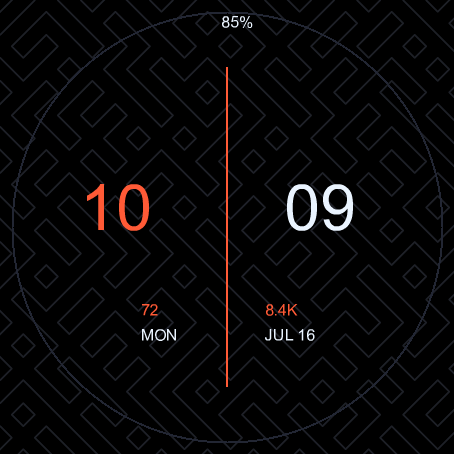
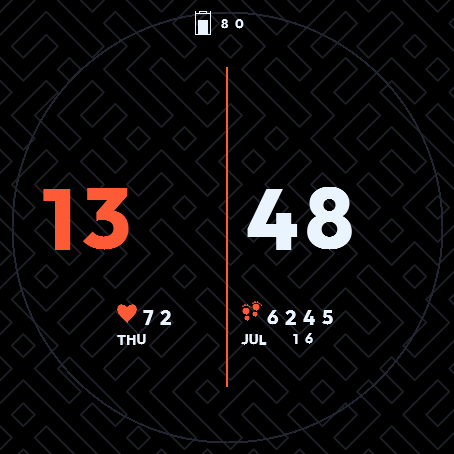
Change battery outline, tip, and progress arc to normal (secondary) theme color

diff --git a/server.js b/server.js
@@ -391,7 +391,7 @@ async function generateThumbnail(config, destPath) {
       const rectImg = new Jimp(w.w || 2, w.h || 320, colorHex + 'ff');
       canvas.composite(rectImg, w.x, w.y);
     } else if (w.type === 'BATTERY') {
-      const colorHex = w.color === 'primary' ? primaryColor : (w.color === 'secondary' ? secondaryColor : w.customColor || '#ffffff');
+      const colorHex = secondaryColor;
       const tipColor = parseInt(colorHex.replace('#', '0x') + 'ff');
       
       const batOutline = await new Jimp(16, 24, 0x00000000);
@@ -1561,10 +1561,10 @@ function generateIndexJs(config) {
       this.centerLineWidget.setProperty(hmUI.prop.COLOR, theme.line)
     }\n`;
     } else if (w.type === 'BATTERY') {
-      themeApplyColors += `    if (this.batteryOutline) this.batteryOutline.setProperty(hmUI.prop.COLOR, theme.line)
-    if (this.batteryTip) this.batteryTip.setProperty(hmUI.prop.COLOR, theme.line)\n`;
+      themeApplyColors += `    if (this.batteryOutline) this.batteryOutline.setProperty(hmUI.prop.COLOR, theme.minute)
+    if (this.batteryTip) this.batteryTip.setProperty(hmUI.prop.COLOR, theme.minute)\n`;
       if (w.showProgress) {
-        themeApplyColors += "    if (this.batteryArcVal) this.batteryArcVal.setProperty(hmUI.prop.COLOR, theme.line)\n";
+        themeApplyColors += "    if (this.batteryArcVal) this.batteryArcVal.setProperty(hmUI.prop.COLOR, theme.minute)\n";
       }
     } else if (w.type === 'STEP') {
       themeApplyColors += `    if (this.stepsIconWidget) {

diff --git a/smoke_test.js b/smoke_test.js
@@ -159,7 +159,7 @@ async function generatePreview() {
       canvas.composite(rectImg, w.x, w.y);
     } else if (w.type === 'BATTERY') {
       // Draw battery icon (16px tip outline, 12px bar)
-      const colorHex = w.color === 'primary' ? activePreset.primary : activePreset.secondary;
+      const colorHex = activePreset.secondary;
       const tipColor = parseInt(colorHex.replace('#', '0x') + 'ff');
       
       const batOutline = await new Jimp(16, 24, 0x00000000);